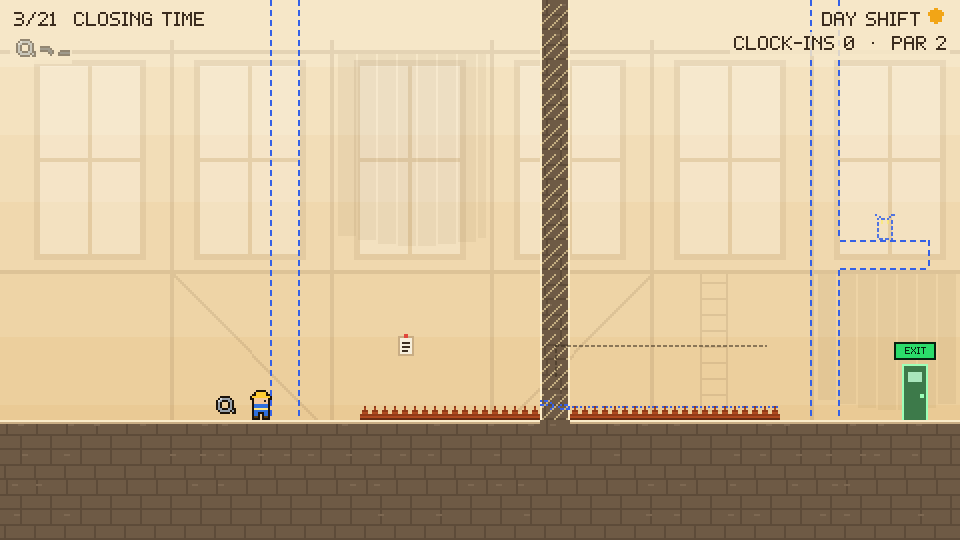
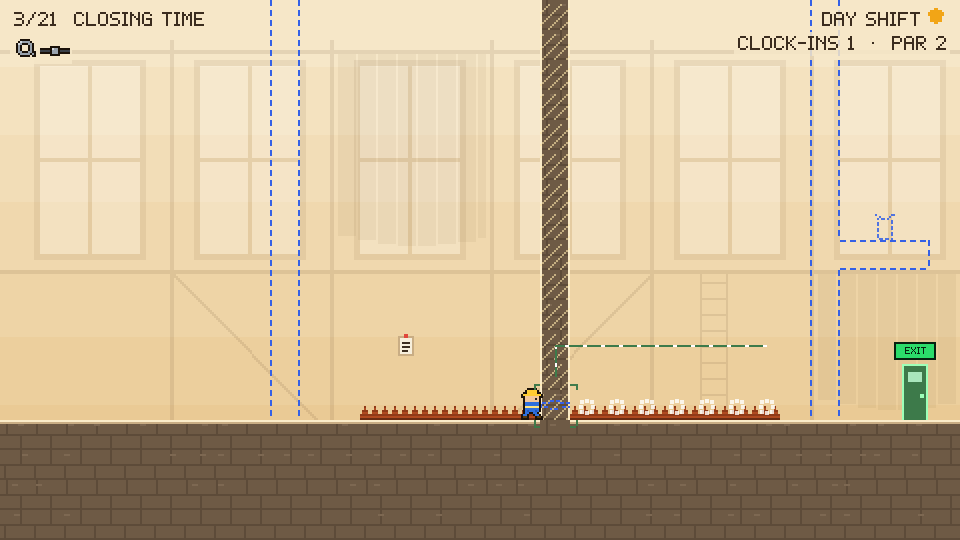
Act 2 rebuilt around its repairs: a jammed fire door, a dark stairwell, a stuck hoist, a door rehung as a bridge

diff --git a/src/levels.js b/src/levels.js
@@ -385,43 +385,48 @@ export const LEVELS = [
       { kind: 'noticeBoard', tx: 3, ty: 10 }, { kind: 'footprints', tx: 17, ty: 13 }, { kind: 'footprints', tx: 18, ty: 13 },
     ],
     note: 'Every time you clock in, something gets moved.',
-    repair: { tool: { tx: 17, ty: 13, layer: 'day', name: 'WRENCH', kind: 'wrench' }, fix: { tx: 28, ty: 13, layer: 'night', name: 'LEAKING PIPE', kind: 'pipe' } },
+    rev: 2,
+    repairs: [{
+      tool: { tx: 17, ty: 13, layer: 'day', name: 'OIL CAN', kind: 'oil' },
+      fix: { tx: 28, ty: 13, layer: 'night', name: 'SQUEAKY HINGE', kind: 'hinge', link: [[28, 12], [29, 12]], set: [{ layer: 'day', x0: 29, y0: 12, y1: 13, ch: '.' }, { layer: 'night', x0: 29, y0: 12, y1: 13, ch: '.' }] },
+    }],
+    skins: [{ kind: 'door', tx: 29, ty: 13 }],
     par: 3,
     day: [
-      '................................',
-      '................................',
-      '................................',
-      '................................',
-      '................................',
-      '................................',
-      '................................',
-      '................................',
-      '................................',
-      '................................',
-      '................................',
-      '................................',
-      '................................',
-      '..S...........................E.',
+      '.............................#..',
+      '.............................#..',
+      '.............................#..',
+      '.............................#..',
+      '.............................#..',
+      '.............................#..',
+      '.............................#..',
+      '.............................#..',
+      '.............................#..',
+      '.............................#..',
+      '.............................#..',
+      '.............................#..',
+      '.............................#..',
+      '..S..........................#E.',
       '#######........#####........####',
       '#######........#####........####',
       '#######........#####........####',
       '#######........#####........####',
     ],
     night: [
-      '................................',
-      '................................',
-      '................................',
-      '................................',
-      '................................',
-      '................................',
-      '................................',
-      '................................',
-      '................................',
-      '................................',
-      '................................',
-      '................................',
-      '................................',
-      '................................',
+      '.............................#..',
+      '.............................#..',
+      '.............................#..',
+      '.............................#..',
+      '.............................#..',
+      '.............................#..',
+      '.............................#..',
+      '.............................#..',
+      '.............................#..',
+      '.............................#..',
+      '.............................#..',
+      '.............................#..',
+      '.............................#..',
+      '.............................#..',
       '####################........####',
       '#######........#####........####',
       '#######........#####........####',
@@ -448,7 +453,11 @@ export const LEVELS = [
       { kind: 'vent', tx: 22, ty: 11 }, { kind: 'mug', tx: 3, ty: 13, layer: 'day' },
     ],
     note: 'Something is in the tunnel. It only moves at night.',
-    repair: { tool: { tx: 12, ty: 13, layer: 'day', name: 'BULB', kind: 'bulb' }, fix: { tx: 25, ty: 13, layer: 'night', name: 'DEAD LIGHT', kind: 'light' } },
+    rev: 2,
+    repairs: [{
+      tool: { tx: 12, ty: 13, layer: 'day', name: 'BULB', kind: 'bulb' },
+      fix: { tx: 25, ty: 13, layer: 'night', name: 'DEAD LIGHT', kind: 'light', link: [[25, 11], [28, 11]], dark: { x0: 27, x1: 31, y0: 5, y1: 13 }, set: [{ layer: 'day', x0: 28, x1: 29, y0: 13, ch: '#' }] },
+    }],
     par: 4,
     day: [
       '......##############............',
@@ -460,11 +469,11 @@ export const LEVELS = [
       '......##############............',
       '......##############............',
       '......##############............',
-      '......##############............',
-      '......##############............',
-      '......##############............',
-      '......##############............',
-      '..S...###........###.^^^^^....E.',
+      '......##############..........E.',
+      '......##############..........##',
+      '......##############..........##',
+      '......##############..........##',
+      '..S...###........###.^^^^.....##',
       '################################',
       '################################',
       '################################',
@@ -481,10 +490,10 @@ export const LEVELS = [
       '......##############............',
       '......##############............',
       '......##############............',
-      '......##############............',
-      '......##############............',
-      '......########################..',
-      '................................',
+      '......##############..........##',
+      '......##############..........##',
+      '......#######################.##',
+      '..............................##',
       '################################',
       '################################',
       '################################',
@@ -493,7 +502,7 @@ export const LEVELS = [
     freaks: [
       { kind: 'lurker', tx: 11, ty: 13, range: 3, speed: 55 },
       { kind: 'peeker', tx: 23, ty: 13, period: 1.6, duty: 0.5 },
-      { kind: 'squatter', tx: 29, ty: 13 },
+      { kind: 'squatter', tx: 28, ty: 13 },
     ],
   },
   {
@@ -501,7 +510,12 @@ export const LEVELS = [
     name: 'Under Renovation',
     act: 2,
     note: "They built a staircase. It leads nowhere. They're very proud.",
-    repair: { tool: { tx: 6, ty: 11, layer: 'night', name: 'FUSE', kind: 'fuse' }, fix: { tx: 28, ty: 8, layer: 'day', name: 'FUSE BOX', kind: 'fuse' } },
+    rev: 2,
+    repairs: [{
+      tool: { tx: 2, ty: 13, layer: 'day', name: 'TAPE', kind: 'tape' },
+      fix: { tx: 22, ty: 8, layer: 'night', name: 'SNAPPED CABLE', kind: 'cable', link: [[23, 8], [26, 8]], set: [{ layer: 'day', x0: 24, x1: 29, y0: 13, ch: '.' }, { layer: 'day', x0: 24, x1: 29, y0: 9, ch: '#' }] },
+    }],
+    skins: [{ kind: 'deck', tx: 24, ty: 13, w: 6, layer: 'day', sag: true }, { kind: 'deck', tx: 24, ty: 9, w: 6, layer: 'day' }],
     par: 2,
     // By day a tower blocks the floor; its top (row 9) is five tiles up, out of reach. At night the tower is
     // missing (renovation) and the freaks' staircase rises in 1-tile steps (4 wide, so every hop has room) to the
@@ -524,11 +538,11 @@ export const LEVELS = [
       '................................',
       '................................',
       '...............................E',
-      '.........................#######',
-      '.........................#######',
-      '.........................#######',
-      '.........................#######',
-      '.S.......................#######',
+      '..............................##',
+      '..............................##',
+      '..............................##',
+      '..............................##',
+      '.S......................########',
       '################################',
       '################################',
       '################################',
@@ -544,11 +558,11 @@ export const LEVELS = [
       '................................',
       '................................',
       '................................',
-      '...................#####........',
-      '...............#########........',
-      '...........#############........',
-      '.......#################........',
-      '...#####################........',
+      '................########........',
+      '..........##############........',
+      '..........##############........',
+      '....####################........',
+      '....####################........',
       '################################',
       '################################',
       '################################',
@@ -560,7 +574,11 @@ export const LEVELS = [
     name: 'Lost & Found',
     act: 2,
     note: 'The freaks have stolen every door. Not the keys. The doors.',
-    repair: { tool: { tx: 9, ty: 13, layer: 'day', name: 'OIL CAN', kind: 'oil' }, fix: { tx: 24, ty: 13, layer: 'night', name: 'SQUEAKY HINGE', kind: 'hinge' } },
+    rev: 2,
+    repairs: [{
+      tool: { tx: 18, ty: 13, layer: 'day', name: 'OIL CAN', kind: 'oil' },
+      fix: { tx: 26, ty: 10, layer: 'night', name: 'LOOSE HINGE', kind: 'hinge', link: [[27, 10], [28, 10]], set: [{ layer: 'night', x0: 28, x1: 29, y0: 10, ch: '#' }] },
+    }],
     par: 5,
     // Three doors (cols 4, 15, 24; 4 tall) cut the floor into rooms, and the exit ledge is 6 up. Night entry n
     // steals door n from the night and lays it on the pile at the ledge's foot: three doors make two 3-tile
@@ -574,7 +592,7 @@ export const LEVELS = [
       { id: 'door2', onNight: 2, tell: { tx: 15, ty: 10 }, sound: 'doorThunk', set: [{ layer: 'night', x0: 15, y0: 10, y1: 13, ch: '.' }, { layer: 'night', x0: 26, x1: 27, y0: 12, ch: '#' }] },
       { id: 'door3', onNight: 3, tell: { tx: 24, ty: 10 }, sound: 'doorThunk', set: [{ layer: 'night', x0: 24, y0: 10, y1: 13, ch: '.' }, { layer: 'night', x0: 26, x1: 27, y0: 11, ch: '#' }] },
     ],
-    skins: [
+    skins: [{ kind: 'deck', tx: 28, ty: 10, w: 2, layer: 'night' }, 
       { kind: 'door', tx: 4, ty: 13, h: 4 }, { kind: 'door', tx: 15, ty: 13, h: 4 }, { kind: 'door', tx: 24, ty: 13, h: 4 },
       { kind: 'doorPile', tx: 26, ty: 13, h: 3, layer: 'night' },
     ],
@@ -592,14 +610,14 @@ export const LEVELS = [
       '................................',
       '................................',
       '................................',
-      '................................',
-      '..............................E.',
-      '............................####',
-      '........##...##....####.....####',
-      '....#...##...###...####.#...####',
-      '....#...##...###...####.#...####',
-      '....#...##...###...####.#...####',
-      '.S..#........^^#C.......#...####',
+      '...............................E',
+      '..............................##',
+      '..............................##',
+      '........##...##....####.......##',
+      '....#...##...###...####.#.....##',
+      '....#...##...###...####.#.....##',
+      '....#...##...###...####.#.....##',
+      '.S..#........^^#C.......#.....##',
       '################################',
       '################################',
       '################################',
@@ -613,13 +631,13 @@ export const LEVELS = [
       '................................',
       '................................',
       '................................',
-      '................................',
-      '............................####',
-      '........##...##....####.....####',
-      '....#...##...###...####.#...####',
-      '....#...##...###...####.#...####',
-      '....#...##...###...####.#...####',
-      '....#...^^.....#........#...####',
+      '..............................##',
+      '..............................##',
+      '........##...##....####.......##',
+      '....#...##...###...####.#.....##',
+      '....#...##...###...####.#.....##',
+      '....#...##...###...####.#.....##',
+      '....#...^^.....#........#.....##',
       '################################',
       '################################',
       '################################',

diff --git a/src/main.js b/src/main.js
@@ -729,6 +729,18 @@ function drawWorkOrder(lvl, s, layer, t) {
   });
 }
 
+// a room with its light out: nothing to see until the repair but the exit's glow
+function drawDarkRooms(lvl, s, layer) {
+  lvl.repairs.forEach((job, i) => {
+    const d = job.fix.dark;
+    if (!d || s.repairs[i].done) return;
+    g.fillStyle = 'rgba(5,6,15,0.95)';
+    g.fillRect(d.x0 * TILE, d.y0 * TILE, (d.x1 - d.x0 + 1) * TILE, (d.y1 - d.y0 + 1) * TILE);
+    const pose = exitPose(lvl, layer, s.overrides);
+    if (pose) drawExit(g, lvl.exit.tx, lvl.exit.ty, layer, pose);
+  });
+}
+
 function drawDecor(def, layer, t) {
   if (layer !== NIGHT) return;
   (def.decor ?? []).forEach((d, i) => {
@@ -912,6 +924,7 @@ function drawPlay() {
     if (b.supervised) drawStatusMark(g, b.x + b.w / 2, b.hang ? b.y + b.h : b.y, b.watched ? 'alert' : 'slack', reduced ? 0 : s.freakClock, alpha, b.hang); // on its clock: a frozen mark stays put
     if (b.kind === 'supervisor') drawTurnTimer(g, b, lvl.freaks[i].period, alpha);
   });
+  drawDarkRooms(lvl, s, layer);
   if (game.fx.spook) drawSpookGag();
   else drawWorker(s, layer);
   drawFx(reduced);

diff --git a/docs/TECH.md b/docs/TECH.md
@@ -4,7 +4,7 @@ Companion to [GDD.md](GDD.md) §13. Describes the code as of 2026-11-05 (after t
 
 **At a glance**
 - **The one rule:** `src/rules.js` decides everything that matters; the screen only draws it (§2).
-- `npm start` to play, `npm test` (<!-- n:tests -->446<!-- /n --> tests), `npm run check` (§7), `npm run media` (headless checks + itch media).
+- `npm start` to play, `npm test` (<!-- n:tests -->450<!-- /n --> tests), `npm run check` (§7), `npm run media` (headless checks + itch media).
 - Add a level: grids in `src/levels.js` + a `SOLUTIONS` entry in `test/solutions.mjs` (§6; the full recipe is BUILD.md §2.1).
 - The five added mechanics (wet floor, day-walker, supervisor, offset layer, Upside Down) are built — §6.5 documents them.
 
@@ -218,7 +218,7 @@ The five added mechanics from [CONTENT.md](CONTENT.md) §3 — all built, tested
 
 | Command | What it covers |
 |---|---|
-| `npm test` | <!-- n:tests -->446<!-- /n --> tests: GDD §13.7 cases 1–15, S-rules, nudge/buffer, pranks, freaks, checkpoint restore, input semantics, determinism, a 6000-tick no-embedding fuzz, wet floor, day/night freak clocks and per-freak shifts, supervisor watched clock, offset generation/refusal/apex, Upside Down rules (flip, gravity sign, hanging, jump and cut, nudge order, coyote across a flip, hazard band, grid edges, checkpoints, fuzz), every level at par + unwinnable without shifting, progress and settings saving, level-select unlocks, font/sprite/music/SFX data, **fairness** (≥ 200/100 ms slack per required input by act, no respawn in a patrol, no freak over an exit), checkpoint-over-pit, level-definition validation |
+| `npm test` | <!-- n:tests -->450<!-- /n --> tests: GDD §13.7 cases 1–15, S-rules, nudge/buffer, pranks, freaks, checkpoint restore, input semantics, determinism, a 6000-tick no-embedding fuzz, wet floor, day/night freak clocks and per-freak shifts, supervisor watched clock, offset generation/refusal/apex, Upside Down rules (flip, gravity sign, hanging, jump and cut, nudge order, coyote across a flip, hazard band, grid edges, checkpoints, fuzz), every level at par + unwinnable without shifting, progress and settings saving, level-select unlocks, font/sprite/music/SFX data, **fairness** (≥ 200/100 ms slack per required input by act, no respawn in a patrol, no freak over an exit), checkpoint-over-pit, level-definition validation |
 | `npm run check` | Every module parses; every level validates |
 | `npm run audit` | Per level: the slack of every required shift and jump (fails under the act floor), input-lag tolerance 0–150 ms, and a random search for wins below par or without shifting (`scripts/audit-levels.mjs`). |
 | `npm run media` | Real browser (headless Edge/Chrome, no dependencies): plays level 1 with key presses, fails on page errors, a wrong outcome, audio clipping or a slow frame; saves the cover, screenshots and gallery. |

diff --git a/itch/page.md b/itch/page.md
@@ -1,6 +1,6 @@
 # itch.io page kit
 
-Everything needed to create the *Double Shift* page on itch.io, in the order the itch dashboard asks for it. Settings come from [RELEASE.md](../docs/RELEASE.md) §2. **Fish writes the final description words**; the draft below is checked against the current build (<!-- n:levels -->21<!-- /n --> levels, <!-- n:tests -->446<!-- /n --> tests, level select, pixel art and music). The paste-ready description in §4 carries no markers, so check its numbers by hand before pasting (the release refresh does).
+Everything needed to create the *Double Shift* page on itch.io, in the order the itch dashboard asks for it. Settings come from [RELEASE.md](../docs/RELEASE.md) §2. **Fish writes the final description words**; the draft below is checked against the current build (<!-- n:levels -->21<!-- /n --> levels, <!-- n:tests -->450<!-- /n --> tests, level select, pixel art and music). The paste-ready description in §4 carries no markers, so check its numbers by hand before pasting (the release refresh does).
 
 ## 1. Build the files
 
@@ -74,7 +74,7 @@ npm run gif -- doors      # media/demo-doors.gif (480×270): Lost & Found's scri
 > **What's in this build:** 21 levels in five acts and a finale, from your first clock-in to the last, including an act where the night shift is upside down. Every prank and patrol shows what it's about to do. Gamepad support, rebindable controls and a speedrun timer. Made for GitHub Game Off 2026 (theme: SHIFT).
 >
 > **How it was made**
-> Designed by Vinícius Raposo for GitHub Game Off 2026. Built with AI assistance (Claude) to his design document, with draft text from the same place, then tested like production software: the gameplay rules are a pure module, the game has 446 automated tests, and every level is proven solvable at par by a scripted run. No engine, no assets: the pixel art, the pixel font and the music are all drawn and synthesized by code, code that was also written with AI assistance. No generated images or audio were used. Source: https://github.com/FishRaposo/double-shift
+> Designed by Vinícius Raposo for GitHub Game Off 2026. Built with AI assistance (Claude) to his design document, with draft text from the same place, then tested like production software: the gameplay rules are a pure module, the game has 450 automated tests, and every level is proven solvable at par by a scripted run. No engine, no assets: the pixel art, the pixel font and the music are all drawn and synthesized by code, code that was also written with AI assistance. No generated images or audio were used. Source: https://github.com/FishRaposo/double-shift
 >
 > If you enjoyed it, a follow or a small donation helps.
 

diff --git a/docs/DESIGN.md b/docs/DESIGN.md
@@ -28,8 +28,8 @@ One month (GitHub Game Off, Nov 1 – Dec 1, 2026, theme SHIFT), one designer, n
 
 ## The numbers
 
-- <!-- n:tests -->446<!-- /n --> automated tests (`npm test`): shift and collision edge cases, nudge/buffer, pranks, freaks, checkpoint restore, input rules, determinism, a 6000-tick fuzz for getting stuck in walls, every level at par, progress and settings saving (including blocked or corrupt storage), the art and music data (every glyph and sprite well-formed, every sound short), and **fairness**: every input a level requires has ≥ 200 ms of slack in acts 1–2 and ≥ 100 ms in acts 3–6, no respawn point sits in a patrol, no freak guards an exit.
-- `src/rules.js` is <!-- n:lines:src/rules.js -->698<!-- /n --> lines. The shell (`src/main.js`) is <!-- n:lines:src/main.js -->1209<!-- /n -->; the art is `src/art.js` (<!-- n:lines:src/art.js -->1197<!-- /n -->), `src/sprites.js` (<!-- n:lines:src/sprites.js -->545<!-- /n -->) and `src/font.js` (<!-- n:lines:src/font.js -->209<!-- /n -->); sound is `src/audio.js` (<!-- n:lines:src/audio.js -->203<!-- /n -->) and `src/music.js` (<!-- n:lines:src/music.js -->268<!-- /n -->).
+- <!-- n:tests -->450<!-- /n --> automated tests (`npm test`): shift and collision edge cases, nudge/buffer, pranks, freaks, checkpoint restore, input rules, determinism, a 6000-tick fuzz for getting stuck in walls, every level at par, progress and settings saving (including blocked or corrupt storage), the art and music data (every glyph and sprite well-formed, every sound short), and **fairness**: every input a level requires has ≥ 200 ms of slack in acts 1–2 and ≥ 100 ms in acts 3–6, no respawn point sits in a patrol, no freak guards an exit.
+- `src/rules.js` is <!-- n:lines:src/rules.js -->698<!-- /n --> lines. The shell (`src/main.js`) is <!-- n:lines:src/main.js -->1222<!-- /n -->; the art is `src/art.js` (<!-- n:lines:src/art.js -->1197<!-- /n -->), `src/sprites.js` (<!-- n:lines:src/sprites.js -->545<!-- /n -->) and `src/font.js` (<!-- n:lines:src/font.js -->209<!-- /n -->); sound is `src/audio.js` (<!-- n:lines:src/audio.js -->203<!-- /n -->) and `src/music.js` (<!-- n:lines:src/music.js -->268<!-- /n -->).
 - Drawing a frame costs under 0.5 ms (the static layer is cached), measured headless by `npm run media`.
 - CI runs the syntax check, level validation, the tests and the doc-count check on every push.
 - The demo GIFs are the tests' own scripted runs, played by the game on a fixed clock (`npm run gif`), so a GIF can't show a run the suite doesn't prove.

diff --git a/docs/PRODUCTION.md b/docs/PRODUCTION.md
@@ -23,7 +23,7 @@ Companion to [GDD.md](GDD.md) §16–17. Status as of **2026-11-05**.
 | Menus | Title, level select + saved bests, settings (volumes, reduced effects, speedrun timer, controls), act cards, pause, timecard with comment, end screen with totals and the run time |
 | Input | Keyboard (move, jump and shift rebindable) and gamepad (fixed standard mapping) |
 | Release kit | Cover, 19 screenshots and the demo GIF tool (`npm run media`, `npm run gif`); the zipped build passes the browser smoke test |
-| Tests | <!-- n:tests -->446<!-- /n --> passing (`npm test`), including fairness; `npm run audit` clean |
+| Tests | <!-- n:tests -->450<!-- /n --> passing (`npm test`), including fairness; `npm run audit` clean |
 | Repo / CI / itch | Public repo [FishRaposo/double-shift](https://github.com/FishRaposo/double-shift), CI green, playable on [GitHub Pages](https://fishraposo.github.io/double-shift/). **No itch page** |
 
 ## 2. Milestones

diff --git a/README.md b/README.md
@@ -78,7 +78,7 @@ scripts/        serve, check, zip for itch, media + headless checks, demo GIFs
 
 ## Tests
 
-The suite has <!-- n:tests -->446<!-- /n --> tests.
+The suite has <!-- n:tests -->450<!-- /n --> tests.
 
 ```sh
 npm test         # GDD §13.7 shift/collision edge cases, pranks and freaks, wet floor, day/night
